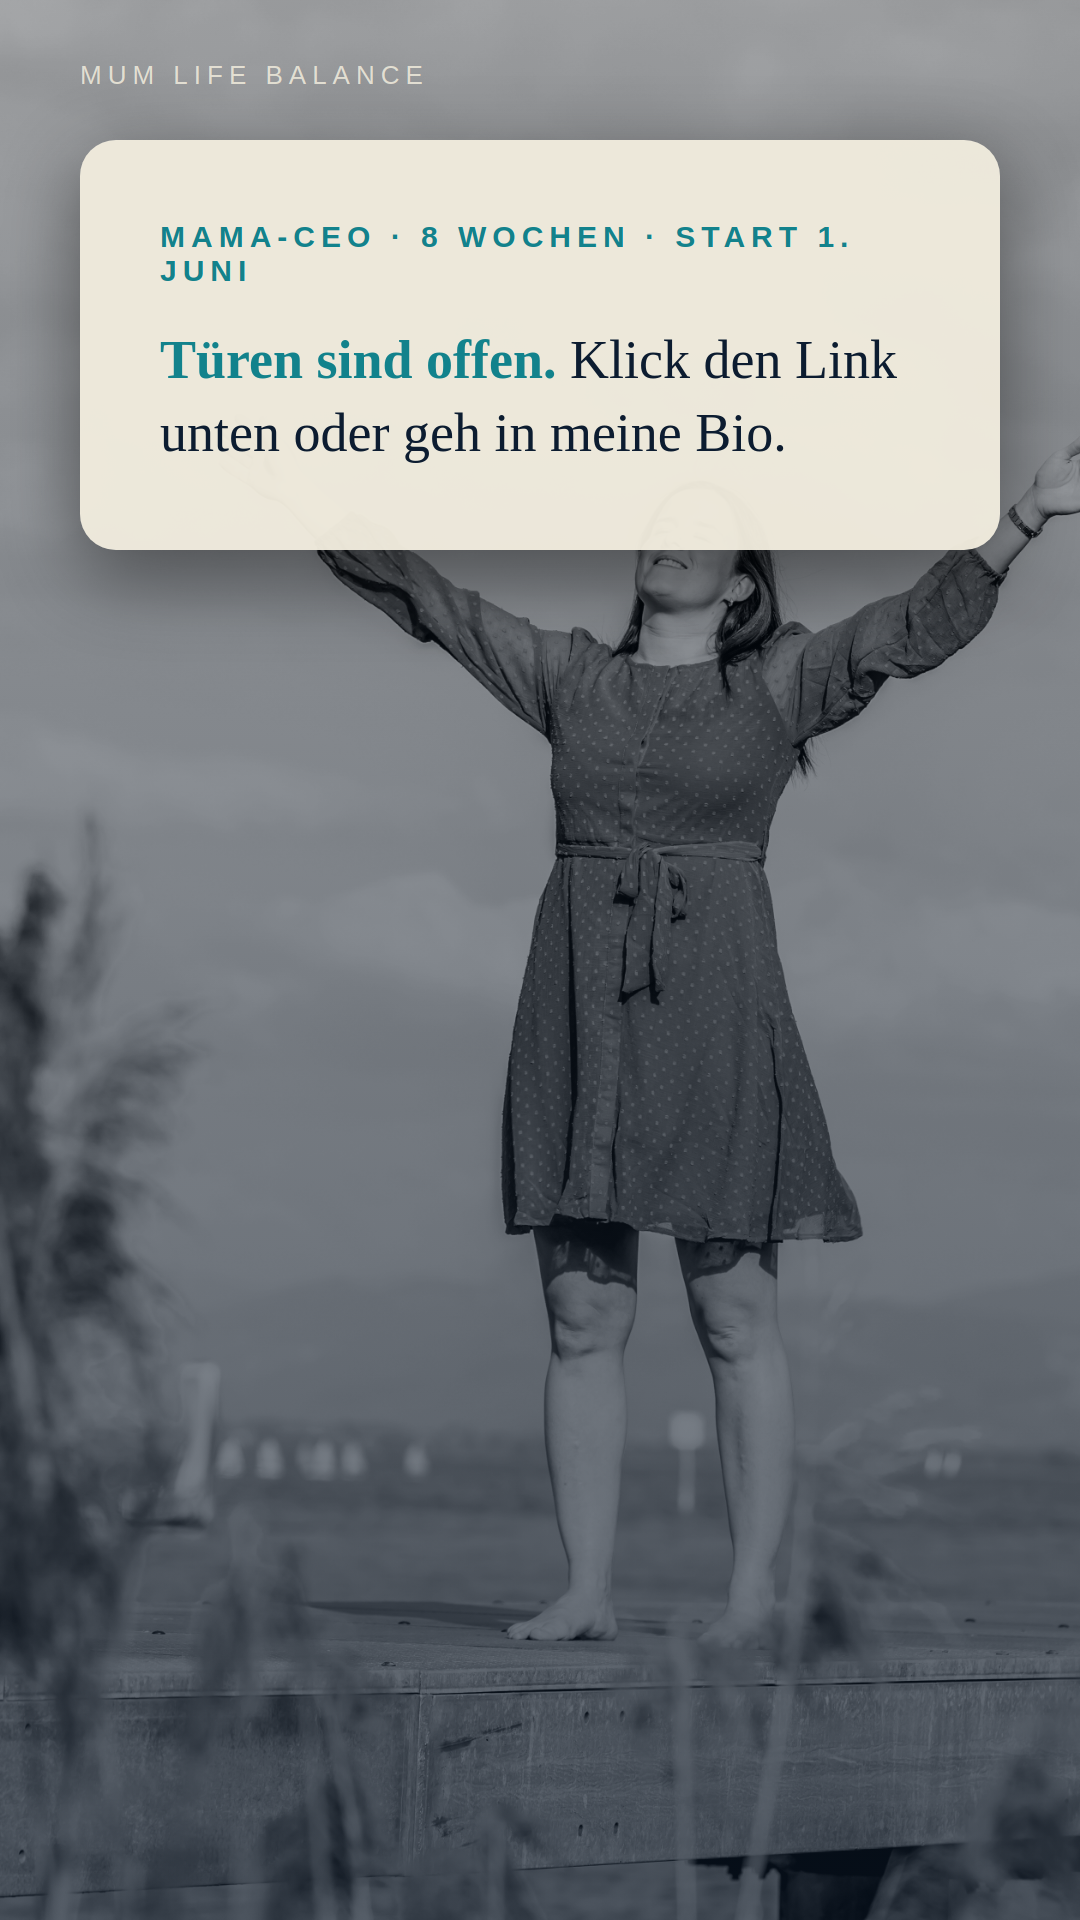
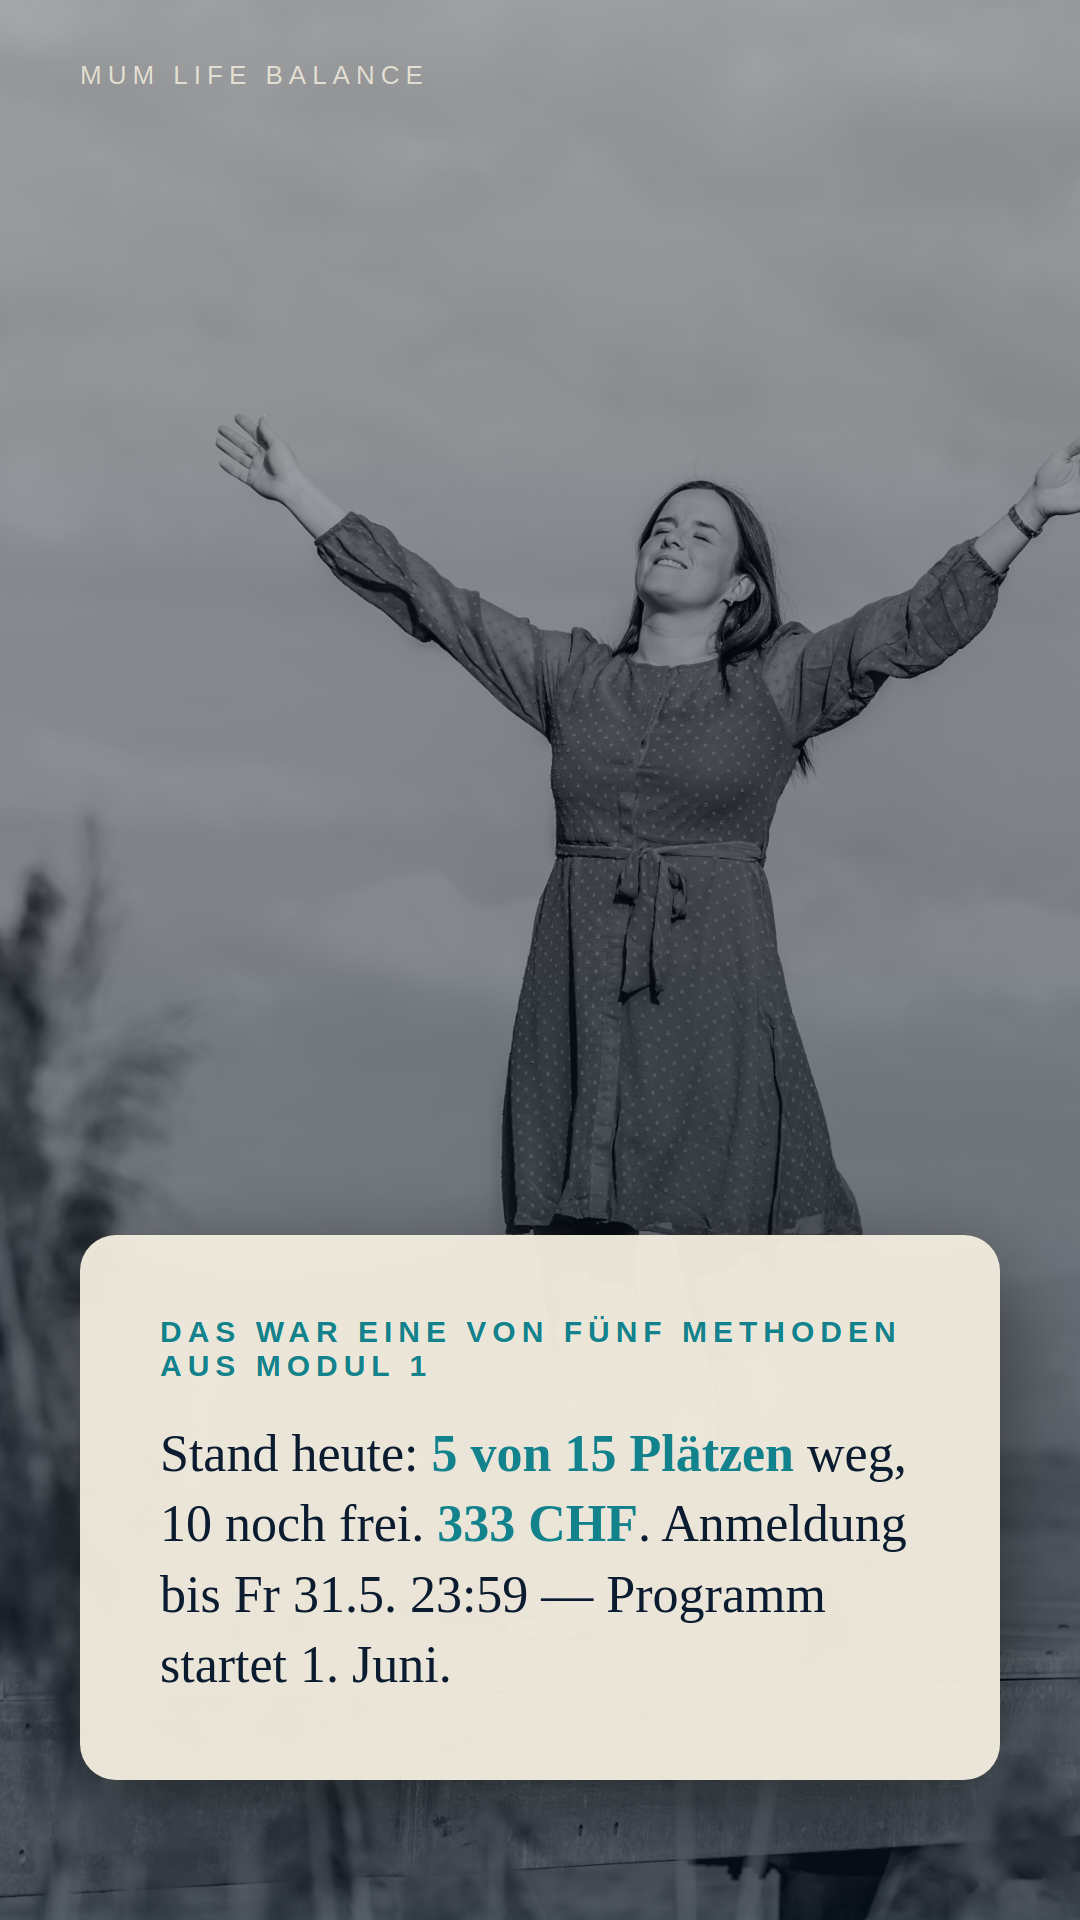
story: Tag 4 v2 — konkrete Modul-1-Lehre statt Hand-Wave
Patricia-Feedback: meine erste Tag-4-Sequenz hatte „Modul 1" nur
erwaehnt, aber nichts Konkretes daraus gegeben. Komplett neu mit
echtem Take-Home-Wert aus Modul 1 (Lektion 1.4 Wochenrhythmus +
Stufe-2-Tripwire-Aufbau Tag 3).

Neue 7-Slide-Sequenz lehrt die „3-Entscheidungen-Regel":
- Slide 1: Pfingst-Setup + Bridge zur Lehre („Tipp aus Modul 1")
- Slide 2: Konzept-Reveal · 3 Optionen fuer jede Aufgabe
- Slide 3: Delegieren + Automatisieren konkret erklaert
- Slide 4: Streichen als schwerste + haeufigste Antwort
- Slide 5: Mini-Uebung „D / A / S" auf der eigenen To-Do-Liste
- Slide 6: Status (5/15, 333, bis 31.5.) + soft Bridge zu Mama-CEO
- Slide 7: CTA Card top

Quellen: outputs/produkte/mama-ceo/01-inhaltsverzeichnis.md (Modul 1)
+ audit-2026-04-22/03-saeule-3-mama-ceo.md (Stufe-2-Tripwire mit
„3 Entscheidungen-Regel: delegieren/automatisieren/streichen").
ZERO erfundene Inhalte.

diff --git a/outputs/stories/2026-05-24-salesday-mentoring-mama-ceo-launch-tag-4-pfingsten/slides.html b/outputs/stories/2026-05-24-salesday-mentoring-mama-ceo-launch-tag-4-pfingsten/slides.html
@@ -2,7 +2,7 @@
 <html lang="de">
 <head>
 <meta charset="UTF-8">
-<title>Mama-CEO Launch Tag 4 · 24.5.2026 · Pfingstsonntag · 6 Slides</title>
+<title>Mama-CEO Launch Tag 4 · 24.5.2026 · Pfingstsonntag · Modul-1-Lehre · 7 Slides</title>
 <link rel="stylesheet" href="../../../scripts/karussell-render/brand-stories.css">
 <style>
   .slide.foto-slide { width:1080px; height:1920px; position:relative; overflow:hidden; background:#0c1c30; page-break-after:always; break-after:page; }
@@ -12,10 +12,10 @@
   .foto-slide .card.top { bottom:auto; top:140px; }
   .foto-slide .card.center { top:50%; bottom:auto; transform:translateY(-50%); }
   .foto-slide .card-eyebrow { font-family:'Source Sans 3',sans-serif; font-size:30px; font-weight:700; letter-spacing:6px; text-transform:uppercase; color:#12828c; margin-bottom:36px; }
-  .foto-slide .card-text { font-family:'Philosopher',serif; font-size:54px; font-weight:400; line-height:1.35; color:#0c1c30; }
+  .foto-slide .card-text { font-family:'Philosopher',serif; font-size:52px; font-weight:400; line-height:1.35; color:#0c1c30; }
   .foto-slide .card-text strong { color:#12828c; font-weight:700; }
   .foto-slide .card-text em { font-style:italic; color:#29556d; }
-  .foto-slide .card-text.hook { font-size:64px; line-height:1.25; font-weight:700; }
+  .foto-slide .card-text.hook { font-size:62px; line-height:1.25; font-weight:700; }
   .foto-slide .brand-tag { position:absolute; top:60px; left:80px; font-family:'Source Sans 3',sans-serif; font-size:26px; letter-spacing:6px; text-transform:uppercase; color:rgba(241,236,221,0.85); z-index:3; }
   .foto-slide .cta-knappheit { margin-top:36px; font-family:'Source Sans 3',sans-serif; font-size:32px; color:#ad5e1f; font-style:italic; }
 </style>
@@ -24,7 +24,7 @@
 
 <div class="grid">
 
-  <!-- SLIDE 1: HOOK · PFINGST-REALITÄT -->
+  <!-- SLIDE 1: HOOK · Pfingst-Setup + Bridge zur Lehre -->
   <div class="stage-wrap">
     <div class="stage">
       <div class="slide foto-slide">
@@ -34,15 +34,15 @@
         <div class="card">
           <div class="card-eyebrow">Pfingstsonntag · zuhause</div>
           <div class="card-text hook">
-            Wir sind alle daheim — planschen, grillen, einfach mal <strong>geniessen</strong>.
+            Wir geniessen. Und bevor ich grillen geh — ein kleiner <strong>Tipp aus Modul 1</strong>. Direkt umsetzbar. Auch ohne Kurs.
           </div>
         </div>
       </div>
     </div>
-    <div class="frame-label">01 Hook · Pfingst-Realität</div>
+    <div class="frame-label">01 Hook · Pfingsten + Lehr-Setup</div>
   </div>
 
-  <!-- SLIDE 2: BUSINESS LÄUFT IM HINTERGRUND -->
+  <!-- SLIDE 2: KONZEPT-REVEAL · Die 3-Entscheidungen-Regel -->
   <div class="stage-wrap">
     <div class="stage">
       <div class="slide foto-slide">
@@ -50,17 +50,17 @@
         <div class="dim"></div>
         <div class="brand-tag">Mum Life Balance</div>
         <div class="card">
-          <div class="card-eyebrow">Und im Hintergrund</div>
+          <div class="card-eyebrow">Die 3-Entscheidungen-Regel</div>
           <div class="card-text">
-            Mama-CEO ist offen. <strong>5 Frauen</strong> sind dabei. Anmeldung läuft weiter — auch ohne dass ich heute am Schreibtisch sitze.
+            Für jede Aufgabe auf deiner To-Do-Liste gibt's <strong>drei Optionen</strong>, die jede Mama-CEO trifft. Was du heute nicht so machst, kostet dich morgen die Wochenenden.
           </div>
         </div>
       </div>
     </div>
-    <div class="frame-label">02 Business läuft</div>
+    <div class="frame-label">02 Konzept · 3-Entscheidungen</div>
   </div>
 
-  <!-- SLIDE 3: MODUL-1-ANKER (Mama-Slots + Business-Slots) -->
+  <!-- SLIDE 3: DELEGIEREN + AUTOMATISIEREN -->
   <div class="stage-wrap">
     <div class="stage">
       <div class="slide foto-slide">
@@ -68,35 +68,17 @@
         <div class="dim"></div>
         <div class="brand-tag">Mum Life Balance</div>
         <div class="card">
-          <div class="card-eyebrow">Genau dafür hab ich's gebaut</div>
+          <div class="card-eyebrow">Option 1 + 2</div>
           <div class="card-text">
-            Für Tage wie heute. Wo ich ganz <em>Mama</em> bin — und das Business trotzdem trägt. Das ist <strong>Modul 1</strong>: Mama-Slots und Business-Slots sauber trennen.
+            <strong>Delegieren</strong> heisst: wer kann das ausser dir machen? Familie, Au-Pair, Freelancer. <strong>Automatisieren</strong> heisst: welche Vorlage, welcher Bot, welche Mail-Sequenz übernimmt es?
           </div>
         </div>
       </div>
     </div>
-    <div class="frame-label">03 Modul-1-Anker</div>
+    <div class="frame-label">03 Delegieren + Automatisieren</div>
   </div>
 
-  <!-- SLIDE 4: VISION ENDE JULI -->
-  <div class="stage-wrap">
-    <div class="stage">
-      <div class="slide foto-slide">
-        <img class="bg" src="fotos/slide-04-vision-ende-juli.jpg" alt="">
-        <div class="dim"></div>
-        <div class="brand-tag">Mum Life Balance</div>
-        <div class="card">
-          <div class="card-eyebrow">Wenn du am 1. Juni startest</div>
-          <div class="card-text">
-            Ende Juli — nach 8 Wochen — hast du genau das hier: ein Wochenende <strong>ohne schlechtes Gewissen</strong>, weil die Systeme tragen.
-          </div>
-        </div>
-      </div>
-    </div>
-    <div class="frame-label">04 Vision · Ende Juli</div>
-  </div>
-
-  <!-- SLIDE 5: STATUS + KNAPPHEIT -->
+  <!-- SLIDE 4: STREICHEN · die schwerste Option -->
   <div class="stage-wrap">
     <div class="stage">
       <div class="slide foto-slide">
@@ -104,21 +86,57 @@
         <div class="dim"></div>
         <div class="brand-tag">Mum Life Balance</div>
         <div class="card">
-          <div class="card-eyebrow">Stand heute</div>
+          <div class="card-eyebrow">Option 3</div>
           <div class="card-text">
-            <strong>5 von 15 Plätzen</strong> weg, 10 noch frei. <strong>333 CHF</strong>. Anmeldung bis Fr 31.5. 23:59 — Programm startet 1. Juni.
+            <strong>Streichen</strong> heisst: wenn niemand es ablöst, gehört es vielleicht gar nicht auf die Liste. Die <em>schwerste</em> Option — und am häufigsten die richtige.
           </div>
         </div>
       </div>
     </div>
-    <div class="frame-label">05 Status + Knappheit</div>
+    <div class="frame-label">04 Streichen · Punchline</div>
   </div>
 
-  <!-- SLIDE 6: CTA (Card top, Link-Sticker-Slot unten) -->
+  <!-- SLIDE 5: MINI-ÜBUNG · Direkt umsetzbar -->
+  <div class="stage-wrap">
+    <div class="stage">
+      <div class="slide foto-slide">
+        <img class="bg" src="fotos/slide-04-vision-ende-juli.jpg" alt="">
+        <div class="dim"></div>
+        <div class="brand-tag">Mum Life Balance</div>
+        <div class="card">
+          <div class="card-eyebrow">Mini-Übung für heute Abend</div>
+          <div class="card-text">
+            Nimm deine To-Do-Liste der letzten Woche. Geh jede Zeile durch und schreib daneben <strong>D / A / S</strong>. Drei Buchstaben — du wirst Augen machen, was alles streichbar ist.
+          </div>
+        </div>
+      </div>
+    </div>
+    <div class="frame-label">05 Mini-Übung · Take-Home</div>
+  </div>
+
+  <!-- SLIDE 6: STATUS + SOFT BRIDGE -->
   <div class="stage-wrap">
     <div class="stage">
       <div class="slide foto-slide">
         <img class="bg" src="fotos/slide-06-cta.jpg" alt="">
+        <div class="dim"></div>
+        <div class="brand-tag">Mum Life Balance</div>
+        <div class="card">
+          <div class="card-eyebrow">Das war eine von fünf Methoden aus Modul 1</div>
+          <div class="card-text">
+            Stand heute: <strong>5 von 15 Plätzen</strong> weg, 10 noch frei. <strong>333 CHF</strong>. Anmeldung bis Fr 31.5. 23:59 — Programm startet 1. Juni.
+          </div>
+        </div>
+      </div>
+    </div>
+    <div class="frame-label">06 Status + Bridge</div>
+  </div>
+
+  <!-- SLIDE 7: CTA (Card top, Link-Sticker-Slot unten) -->
+  <div class="stage-wrap">
+    <div class="stage">
+      <div class="slide foto-slide">
+        <img class="bg" src="fotos/slide-01-warm-zuhause.jpg" alt="">
         <div class="dim"></div>
         <div class="brand-tag">Mum Life Balance</div>
         <div class="card top">
@@ -129,7 +147,7 @@
         </div>
       </div>
     </div>
-    <div class="frame-label">06 CTA · Link-Sticker-Slot unten</div>
+    <div class="frame-label">07 CTA · Link-Sticker-Slot unten</div>
   </div>
 
 </div>
